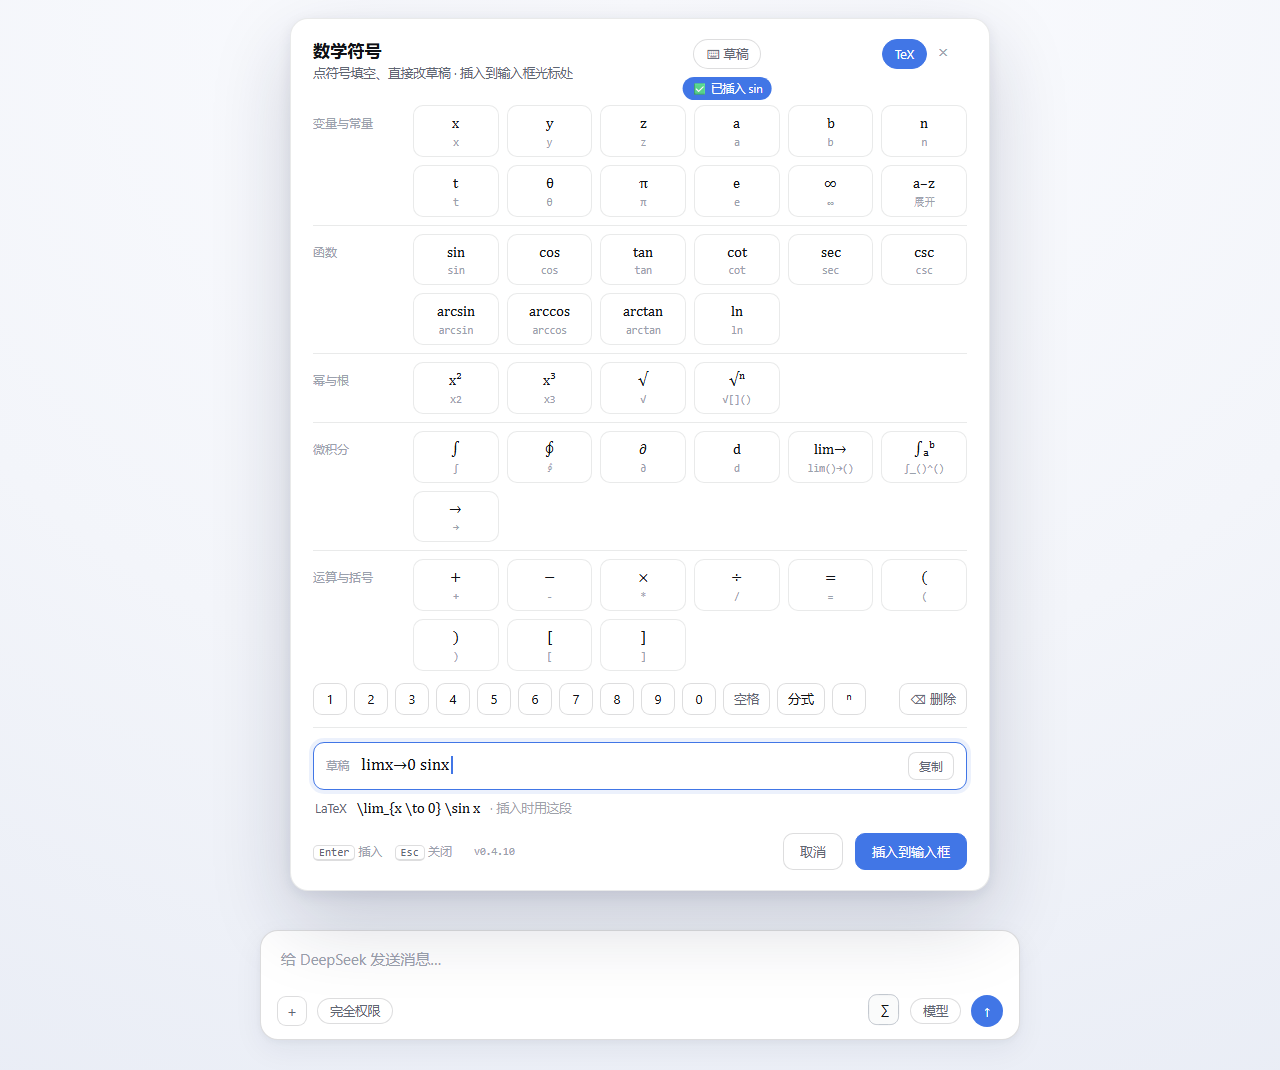
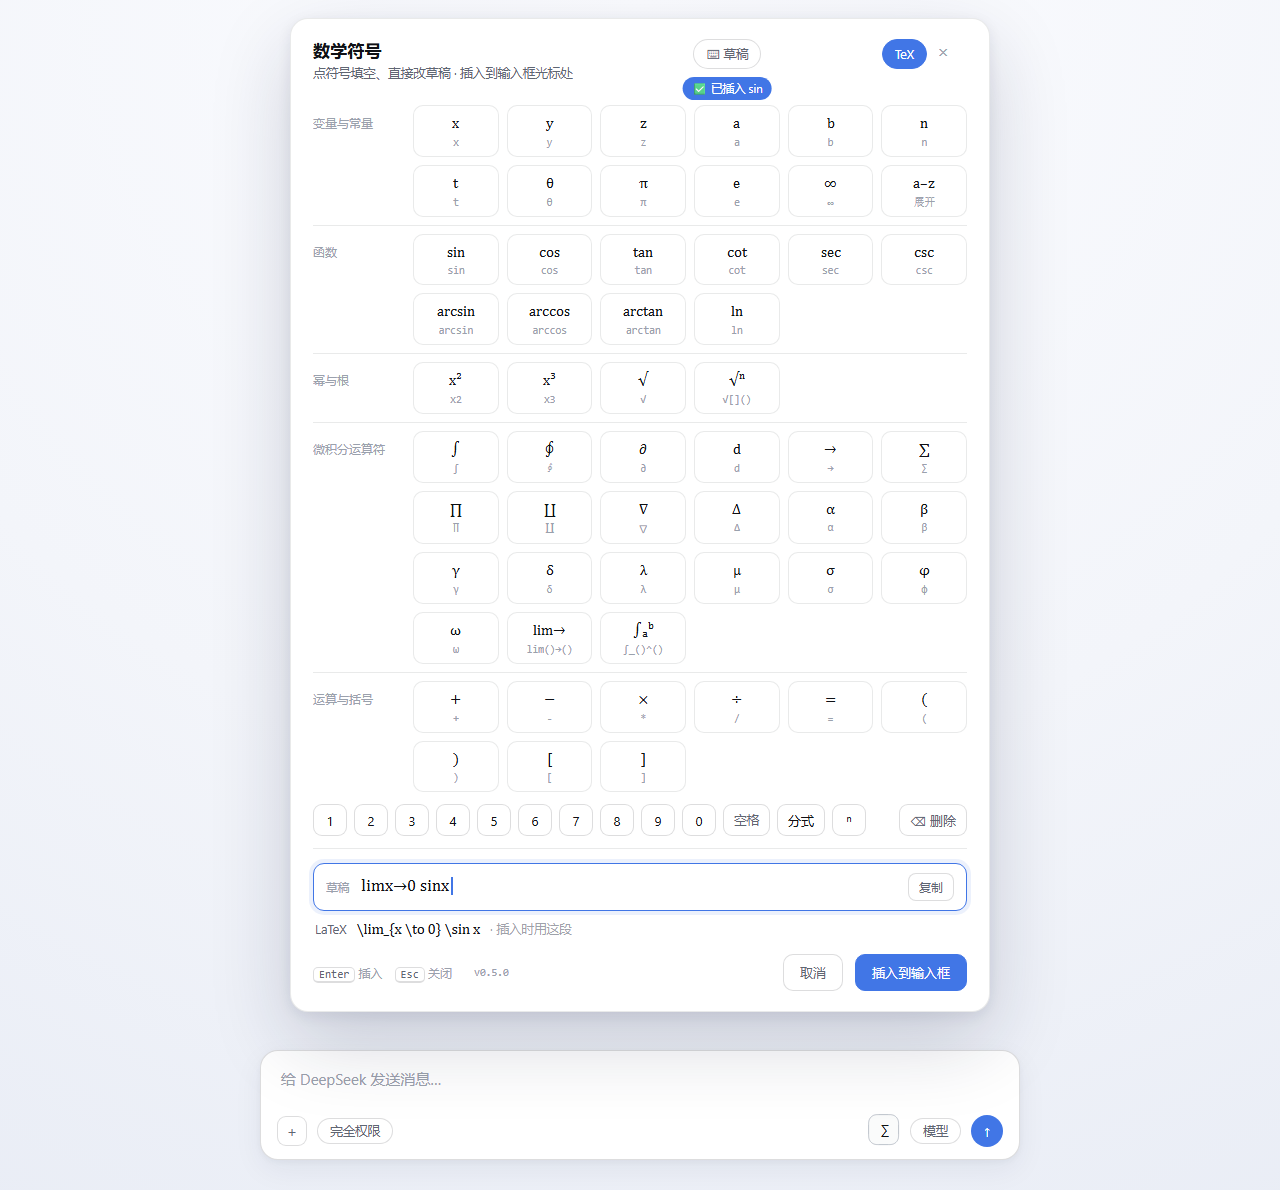
feat: 0.5.0 - recent row, expanded calculus operators with greek, Ctrl+Shift+M shortcut

diff --git a/client.js b/client.js
@@ -4,7 +4,7 @@ window.__ModuleLoader__.load({
     const React = require('react');
     const h = React.createElement;
     // 与 package.json 的 version 保持一致：面板底部会显示它，用来确认页面里跑的是哪一版。
-    const VERSION = '0.4.10';
+    const VERSION = '0.5.0';
 
     // ---------------------------------------------------------------------
     // 符号表：面板渲染、LaTeX 转换都从这张表生成。加一个符号 = 加一行。
@@ -56,15 +56,29 @@ window.__ModuleLoader__.load({
       },
       {
         id: 'calc',
-        name: '微积分',
+        name: '微积分运算符',
         items: [
           ['∫', '∫', '\\int'],
           ['∮', '∮', '\\oint'],
           ['∂', '∂', '\\partial'],
           ['d', 'd', 'd'],
+          ['→', '→', '\\to'],
+          ['∑', '∑', '\\sum'],
+          ['∏', '∏', '\\prod'],
+          ['∐', '∐', '\\coprod'],
+          ['∇', '∇', '\\nabla'],
+          ['Δ', 'Δ', '\\Delta'],
+          ['α', 'α', '\\alpha'],
+          ['β', 'β', '\\beta'],
+          ['γ', 'γ', '\\gamma'],
+          ['δ', 'δ', '\\delta'],
+          ['λ', 'λ', '\\lambda'],
+          ['μ', 'μ', '\\mu'],
+          ['σ', 'σ', '\\sigma'],
+          ['φ', 'φ', '\\phi'],
+          ['ω', 'ω', '\\omega'],
           ['lim→', 'lim()→()', '\\lim_{} \\to ', 4, 'lim'],
           ['∫ₐᵇ', '∫_()^()', '\\int_{}^{}', 3, 'int'],
-          ['→', '→', '\\to'],
         ],
       },
       {
@@ -95,6 +109,29 @@ window.__ModuleLoader__.load({
     // 字母条：常用变量之外的 a–z，按需展开，不占常驻空间。
     const LETTERS = 'abcdefghijklmnopqrstuvwxyz'.split('').map((letter) => [letter, letter, letter]);
     const LETTER_CELLS = LETTERS.map((item) => ({ glyph: item[0], text: item[1] }));
+
+    // 最近使用：只记完整插入文本，展示时再截断。
+    const RECENT_KEY = 'dsh.mathpad.recent';
+    const RECENT_LIMIT = 8;
+    let recentItems = [];
+    try {
+      const raw = typeof localStorage !== 'undefined' ? localStorage.getItem(RECENT_KEY) : null;
+      if (raw !== null) {
+        const parsed = JSON.parse(raw);
+        if (Array.isArray(parsed)) recentItems = parsed.filter((item) => item && typeof item.text === 'string').slice(0, RECENT_LIMIT);
+      }
+    } catch { recentItems = []; }
+    const saveRecent = () => {
+      try {
+        if (typeof localStorage !== 'undefined') localStorage.setItem(RECENT_KEY, JSON.stringify(recentItems));
+      } catch { /* 记住失败不影响使用 */ }
+    };
+    const rememberRecent = (value) => {
+      if (typeof value !== 'string' || value.trim() === '' || /^[0-9 ]$/.test(value)) return;
+      const label = value.length > 8 ? value.slice(0, 8) + '…' : value;
+      recentItems = [{ text: value, label }, ...recentItems.filter((item) => item.text !== value)].slice(0, RECENT_LIMIT);
+      saveRecent();
+    };
 
     // 函数名用于 LaTeX 的“补空格 + 收下标”规则；长的排前面，避免 arcsin 被 sin 抢先匹配。
     const FUNCS = GROUPS.find((group) => group.id === 'fn').items
@@ -623,8 +660,11 @@ window.__ModuleLoader__.load({
     // ---------------------------------------------------------------------
     // 触发按钮（输入框右下角、识图左侧的一枚图标）
     // ---------------------------------------------------------------------
+    let latestActions = null;
+
     function MathSymbolsTrigger(props) {
       const actions = props === null || props === undefined ? undefined : props.inputActions;
+      if (actions !== undefined && actions !== null) latestActions = actions;
       const disabled = actions === undefined;
       const glyphRef = React.useRef(null);
       React.useEffect(() => { centerGlyphInk(glyphRef.current); }, []);
@@ -740,19 +780,21 @@ window.__ModuleLoader__.load({
       };
 
       const insertSnippet = (snippet) => {
-        if (state.direct) { insertDirect(snippet); flash('✅ 已插入 ' + snippet); return; }
+        if (state.direct) { insertDirect(snippet); rememberRecent(snippet); flash('✅ 已插入 ' + snippet); return; }
         const start = caret();
         const end = caretEnd();
         replaceRange(start, end, snippet);
+        rememberRecent(snippet);
         flash('✅ 已插入 ' + snippet);
       };
 
       // 模板：插入一段文本，并把光标放到模板内部（例如分式的分子）。
       const insertTemplate = (template, offset) => {
-        if (state.direct) { insertDirect(template); flash('✅ 已插入模板'); return; }
+        if (state.direct) { insertDirect(template); rememberRecent(template); flash('✅ 已插入模板'); return; }
         const start = caret();
         const end = caretEnd();
         replaceRange(start, end, template, start + offset);
+        rememberRecent(template);
         flash('✅ 已插入模板');
       };
 
@@ -800,6 +842,7 @@ window.__ModuleLoader__.load({
         const to = read(slotRefs[1]) ?? slot.values[1] ?? '';
         const filled = slot.kind === 'lim' ? 'lim(' + from + ')→(' + to + ')' : '∫_(' + from + ')^(' + to + ')';
         replaceRange(state.slotStart, state.slotEnd, filled);
+        rememberRecent(filled);
         patchPanel({ slot: null, slotStart: 0, slotEnd: 0 });
         flash('✅ 已插入模板');
       };
@@ -1039,6 +1082,20 @@ window.__ModuleLoader__.load({
               className: 'mss-body',
               onMouseLeave: () => patchPanel({ mode: 'idle', activeSection: 'vars', focusIndex: 0 }),
             },
+              recentItems.length === 0 ? null : h('div', { className: 'mss-sect mss-recent' },
+                h('div', { className: 'mss-sname' }, '最近'),
+                h('div', { className: 'mss-cellwrap' },
+                  h('div', { className: 'mss-cells mss-recent-cells' },
+                    recentItems.map((item) => h('button', {
+                      key: 'recent-' + item.text,
+                      type: 'button',
+                      className: 'mss-cell mss-recent-cell',
+                      title: '插入 ' + item.text,
+                      onMouseDown: keepFocus,
+                      onClick: () => insertSnippet(item.text),
+                    }, h('div', { className: 'mss-glyph' }, item.label)))),
+                ),
+              ),
               SECTIONS.map((section) => h('div', {
                 key: section.id,
                 className: 'mss-sect',
@@ -1238,6 +1295,26 @@ window.__ModuleLoader__.load({
           name: 'shell.overlay',
           id: 'math-symbols-panel',
         }, MathSymbolsDialog));
+
+        // Ctrl+Shift+M：手不离键盘打开面板。
+        if (typeof document !== 'undefined' && typeof document.addEventListener === 'function') {
+          const onShortcut = (event) => {
+            if (event === null || event === undefined) return;
+            if (!event.ctrlKey || !event.shiftKey) return;
+            if (typeof event.key !== 'string' || event.key.toLowerCase() !== 'm') return;
+            if (panel.open || latestActions === null) return;
+            event.preventDefault();
+            openPanel(latestActions);
+          };
+          if (typeof ctx.effect === 'function') {
+            ctx.effect(() => {
+              document.addEventListener('keydown', onShortcut);
+              return () => document.removeEventListener('keydown', onShortcut);
+            }, 'math-symbols: shortcut');
+          } else {
+            document.addEventListener('keydown', onShortcut);
+          }
+        }
       },
     };
   },

diff --git a/docs/hero.html b/docs/hero.html
@@ -17,7 +17,7 @@
     font-family:"Segoe UI","Microsoft YaHei",system-ui,-apple-system,sans-serif;color:var(--ink);
     display:flex;align-items:center;justify-content:center;overflow:hidden;
   }
-  .scene{position:relative;width:1200px;height:1070px;display:flex;align-items:flex-end;justify-content:center;padding-bottom:30px}
+  .scene{position:relative;width:1200px;height:1190px;display:flex;align-items:flex-end;justify-content:center;padding-bottom:30px}
 
   /* composer (partly hidden behind the panel) */
   .composer{width:760px;background:var(--card);border:1px solid var(--line2);border-radius:18px;
@@ -160,15 +160,29 @@
         </div>
 
         <div class="sect">
-          <div class="sname">微积分</div>
+          <div class="sname">微积分运算符</div>
           <div class="cells">
             <div class="sym"><div class="g">∫</div><div class="c">∫</div></div>
             <div class="sym"><div class="g">∮</div><div class="c">∮</div></div>
             <div class="sym"><div class="g">∂</div><div class="c">∂</div></div>
             <div class="sym"><div class="g">d</div><div class="c">d</div></div>
+            <div class="sym"><div class="g">→</div><div class="c">→</div></div>
+            <div class="sym"><div class="g">∑</div><div class="c">∑</div></div>
+            <div class="sym"><div class="g">∏</div><div class="c">∏</div></div>
+            <div class="sym"><div class="g">∐</div><div class="c">∐</div></div>
+            <div class="sym"><div class="g">∇</div><div class="c">∇</div></div>
+            <div class="sym"><div class="g">Δ</div><div class="c">Δ</div></div>
+            <div class="sym"><div class="g">α</div><div class="c">α</div></div>
+            <div class="sym"><div class="g">β</div><div class="c">β</div></div>
+            <div class="sym"><div class="g">γ</div><div class="c">γ</div></div>
+            <div class="sym"><div class="g">δ</div><div class="c">δ</div></div>
+            <div class="sym"><div class="g">λ</div><div class="c">λ</div></div>
+            <div class="sym"><div class="g">μ</div><div class="c">μ</div></div>
+            <div class="sym"><div class="g">σ</div><div class="c">σ</div></div>
+            <div class="sym"><div class="g">φ</div><div class="c">φ</div></div>
+            <div class="sym"><div class="g">ω</div><div class="c">ω</div></div>
             <div class="sym"><div class="g">lim→</div><div class="c">lim()→()</div></div>
             <div class="sym"><div class="g">∫ₐᵇ</div><div class="c">∫_()^()</div></div>
-            <div class="sym"><div class="g">→</div><div class="c">→</div></div>
           </div>
         </div>
 
@@ -214,7 +228,7 @@
 
       <div class="foot">
         <span class="hint"><span class="kbd">Enter</span> 插入　<span class="kbd">Esc</span> 关闭</span>
-        <span class="ver">v0.4.10</span>
+        <span class="ver">v0.5.0</span>
         <span class="spacer"></span>
         <button class="btn">取消</button>
         <button class="btn primary">插入到输入框</button>

diff --git a/CHANGELOG.md b/CHANGELOG.md
@@ -1,5 +1,12 @@
 # 变更记录：从 beta 到 v3.7 / 开源 0.2.x
 
+## 0.5.0
+
+- **最近使用**：面板顶部新增「最近」行，显示最近 8 个插入过的符号/模板（去重、最新在前），点一下即可复用；存 `localStorage`，刷新后仍在。
+- **微积分运算符分组扩充**：新增 `∑ ∏ ∐ ∇ Δ` 与希腊字母 `α β γ δ λ μ σ φ ω`，连同 `∫ ∮ ∂ d → lim→ ∫ₐᵇ` 统一放进「微积分运算符」；常驻符号 41 → 55。
+- **快捷键 `Ctrl+Shift+M`**：输入框聚焦时直接打开面板，不用去点 `∑`。
+- 测试同步：55 个符号、最近行复现、快捷键打开面板、document 键盘监听注册。
+
 ## 0.4.10
 
 代码整理，无行为变化：
